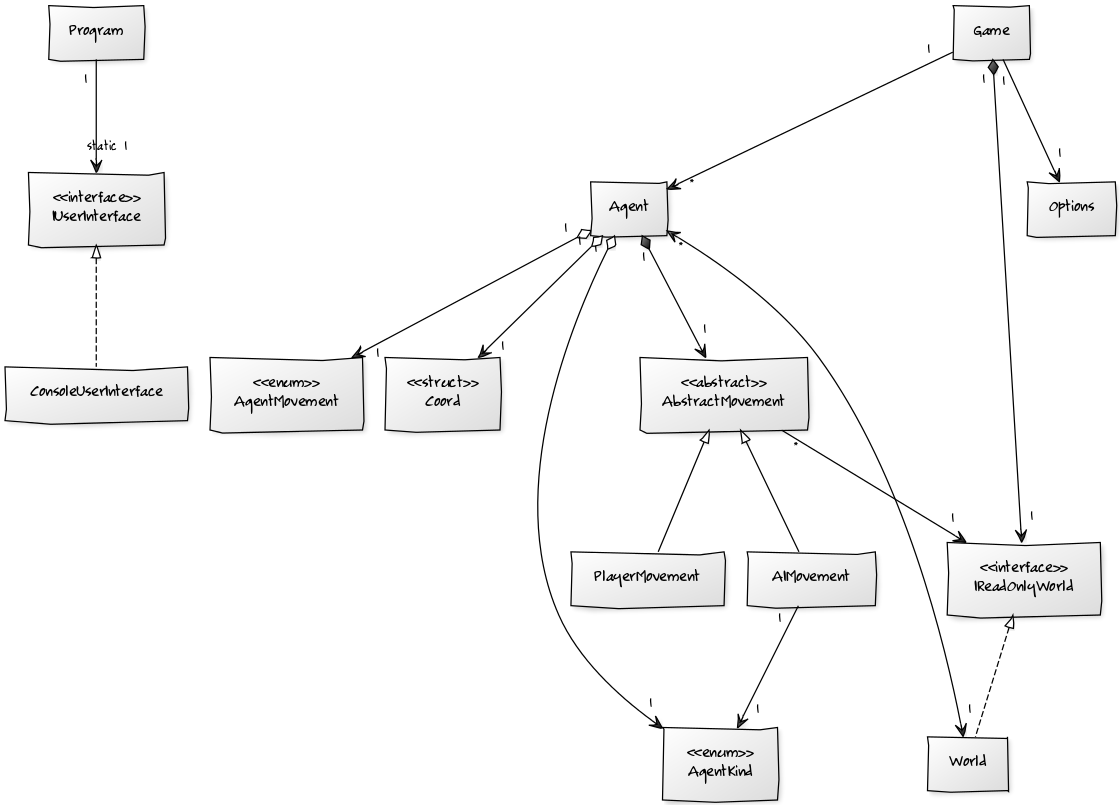
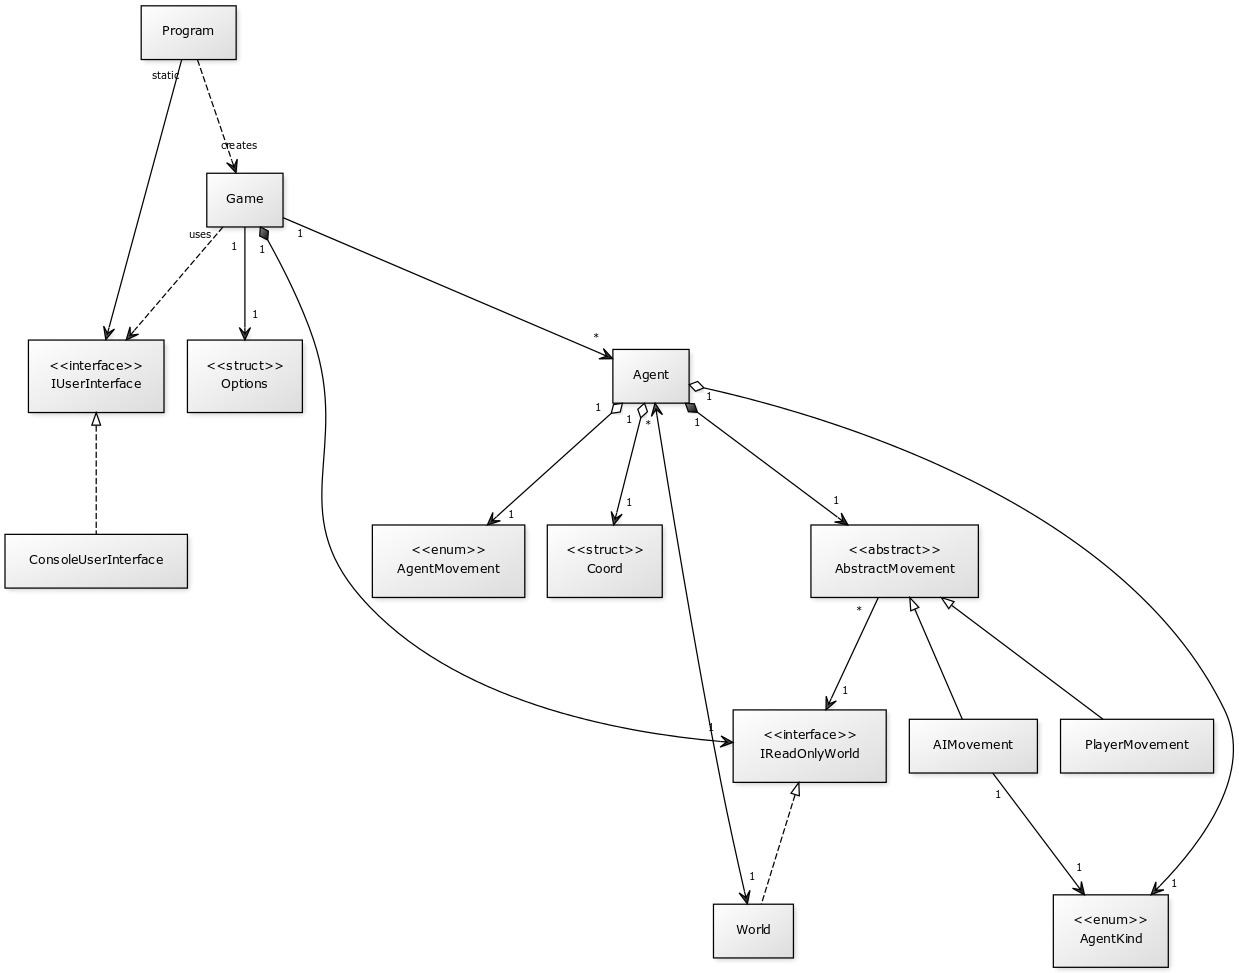
Update docs with flow diagram

diff --git a/_agent_8cs_source.html b/_agent_8cs_source.html
@@ -248,7 +248,7 @@ $(document).ready(function(){initNavTree('_agent_8cs_source.html','');});
 </div><!-- fragment --></div><!-- contents -->
 </div><!-- doc-content -->
 <div class="ttc" id="aclass_zombies_vs_humans_1_1_world_html_a17a95802a32768b79d2223d9c5e85849"><div class="ttname"><a href="class_zombies_vs_humans_1_1_world.html#a17a95802a32768b79d2223d9c5e85849">ZombiesVsHumans.World.AddAgent</a></div><div class="ttdeci">void AddAgent(Agent agent)</div><div class="ttdoc">Adiciona agente ao mundo de simulação.</div><div class="ttdef"><b>Definition:</b> <a href="_world_8cs_source.html#l00300">World.cs:300</a></div></div>
-<div class="ttc" id="aclass_zombies_vs_humans_1_1_agent_html_a6102eec5aca953964a03b12b21b42cf6"><div class="ttname"><a href="class_zombies_vs_humans_1_1_agent.html#a6102eec5aca953964a03b12b21b42cf6">ZombiesVsHumans.Agent.Infect</a></div><div class="ttdeci">void Infect()</div><div class="ttdoc">Método privado que realizada a infeção de um agente.</div><div class="ttdef"><b>Definition:</b> <a href="_agent_8cs_source.html#l00206">Agent.cs:206</a></div></div>
+<div class="ttc" id="aclass_zombies_vs_humans_1_1_agent_html_a6102eec5aca953964a03b12b21b42cf6"><div class="ttname"><a href="class_zombies_vs_humans_1_1_agent.html#a6102eec5aca953964a03b12b21b42cf6">ZombiesVsHumans.Agent.Infect</a></div><div class="ttdeci">void Infect()</div><div class="ttdoc">Método privado que realiza a infeção de um agente.</div><div class="ttdef"><b>Definition:</b> <a href="_agent_8cs_source.html#l00206">Agent.cs:206</a></div></div>
 <div class="ttc" id="aclass_zombies_vs_humans_1_1_agent_html"><div class="ttname"><a href="class_zombies_vs_humans_1_1_agent.html">ZombiesVsHumans.Agent</a></div><div class="ttdoc">Classe que representa um agente.</div><div class="ttdef"><b>Definition:</b> <a href="_agent_8cs_source.html#l00016">Agent.cs:16</a></div></div>
 <div class="ttc" id="aclass_zombies_vs_humans_1_1_agent_html_a12a70b9053359b916649107d58b18431"><div class="ttname"><a href="class_zombies_vs_humans_1_1_agent.html#a12a70b9053359b916649107d58b18431">ZombiesVsHumans.Agent.Movement</a></div><div class="ttdeci">AgentMovement Movement</div><div class="ttdoc">Propriedade auto-implementada que representa o tipo de movimento realizado pelo agente.</div><div class="ttdef"><b>Definition:</b> <a href="_agent_8cs_source.html#l00047">Agent.cs:47</a></div></div>
 <div class="ttc" id="aclass_zombies_vs_humans_1_1_agent_html_aaaa18e625dbf399498cfedbe42b7846e"><div class="ttname"><a href="class_zombies_vs_humans_1_1_agent.html#aaaa18e625dbf399498cfedbe42b7846e">ZombiesVsHumans.Agent.Agent</a></div><div class="ttdeci">Agent(int id, Coord pos, AgentKind kind, AgentMovement movement, World world)</div><div class="ttdoc">Método construtor, instancia um novo agente.</div><div class="ttdef"><b>Definition:</b> <a href="_agent_8cs_source.html#l00073">Agent.cs:73</a></div></div>

diff --git a/class_zombies_vs_humans_1_1_agent.html b/class_zombies_vs_humans_1_1_agent.html
@@ -142,7 +142,7 @@ Propriedades</h2></td></tr>
 <tr class="heading"><td colspan="2"><h2 class="groupheader"><a name="pri-methods"></a>
 Membros privados</h2></td></tr>
 <tr class="memitem:a6102eec5aca953964a03b12b21b42cf6"><td class="memItemLeft" align="right" valign="top">void&#160;</td><td class="memItemRight" valign="bottom"><a class="el" href="class_zombies_vs_humans_1_1_agent.html#a6102eec5aca953964a03b12b21b42cf6">Infect</a> ()</td></tr>
-<tr class="memdesc:a6102eec5aca953964a03b12b21b42cf6"><td class="mdescLeft">&#160;</td><td class="mdescRight">Método privado que realizada a infeção de um agente.  <a href="class_zombies_vs_humans_1_1_agent.html#a6102eec5aca953964a03b12b21b42cf6">Mais...</a><br /></td></tr>
+<tr class="memdesc:a6102eec5aca953964a03b12b21b42cf6"><td class="mdescLeft">&#160;</td><td class="mdescRight">Método privado que realiza a infeção de um agente.  <a href="class_zombies_vs_humans_1_1_agent.html#a6102eec5aca953964a03b12b21b42cf6">Mais...</a><br /></td></tr>
 <tr class="separator:a6102eec5aca953964a03b12b21b42cf6"><td class="memSeparator" colspan="2">&#160;</td></tr>
 </table><table class="memberdecls">
 <tr class="heading"><td colspan="2"><h2 class="groupheader"><a name="pri-attribs"></a>
@@ -243,7 +243,7 @@ Atributos Privados</h2></td></tr>
 </table>
 </div><div class="memdoc">
 
-<p>Método privado que realizada a infeção de um agente. </p>
+<p>Método privado que realiza a infeção de um agente. </p>
 
 <p class="definition">Definido na linha <a class="el" href="_agent_8cs_source.html#l00206">206</a> do ficheiro <a class="el" href="_agent_8cs_source.html">Agent.cs</a>.</p>
 

diff --git a/index.html b/index.html
@@ -116,7 +116,12 @@ Zombies vs Humanos</div></div>
 <img src="UML.png" alt=""/>
 <div class="caption">
 Diagrama UML de classes</div></div>
-   <p><b>Figura 1</b> - Diagrama UML de classes da solução (código fonte da figura disponível <a href="img/uml.yuml">aqui</a>, tendo a mesma sido gerada com <a href="https://yuml.me/">yUML</a>). As relações de dependência foram omitidas para simplificação do diagrama.</p>
+   <p><b>Figura 1</b> - Diagrama UML de classes da solução (código fonte da figura disponível <a href="imgsource/uml.yuml">aqui</a>, tendo a mesma sido gerada em <a href="https://yuml.me/">yUML</a>). Para simplificação do diagrama são apenas mostradas as relações de dependência mais importantes.</p>
+<div class="image">
+<img src="fluxograma.png" alt=""/>
+<div class="caption">
+Fluxograma</div></div>
+   <p><b>Figura 2</b> - Fluxograma do programa (código fonte da figura disponível <a href="imgsource/fluxograma.drawio">aqui</a>, tendo a mesma sido gerada em <a href="https://www.draw.io/">Draw.io</a>).</p>
 <h2>Referências</h2>
 <p><em>em breve</em></p>
 <h2>Metadados</h2>
